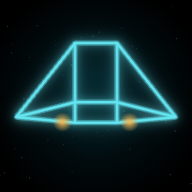
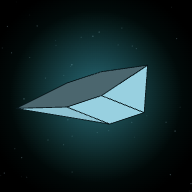
Switch from neon wireframe to retro flat-shaded solids
Ships, station, planets, moons, asteroids and canisters are now solid
flat-shaded hulls in the style of the 16-bit Elite ports, replacing the
line-art wireframes.

- Hulls built as convex solids from the ship vertex clouds; added spine
  and keel vertices so each broad surface splits into separately-lit
  facets instead of reading as one flat plate
- Sun-anchored key light plus cool kicker and hemisphere fill, so every
  facet lands on a distinct value and silhouettes never go black
- Planets are faceted globes with a real day/night terminator; the
  station's docking slot is a dark recess rimmed in landing-light green
- Bloom now thresholded so only lasers, glows and suns bleed
- Saturated hull palette that survives the lambert ramp
- App icon and manual cover redrawn as flat-shaded polygons

Changed region(s): [[0.0312, 0.1875, 0.9688, 0.8438]]

diff --git a/index.html b/index.html
@@ -282,6 +282,7 @@ import * as THREE from 'three';
 import {EffectComposer} from 'three/addons/postprocessing/EffectComposer.js';
 import {RenderPass} from 'three/addons/postprocessing/RenderPass.js';
 import {UnrealBloomPass} from 'three/addons/postprocessing/UnrealBloomPass.js';
+import {ConvexGeometry} from 'three/addons/geometries/ConvexGeometry.js';
 
 /* ============================================================
    ELITE 3K — a single-file tribute to Elite (1984)
@@ -622,85 +623,88 @@ const RANKS=[[0,'HARMLESS'],[8,'MOSTLY HARMLESS'],[16,'POOR'],[32,'AVERAGE'],[64
 function rankName(kills){let r=RANKS[0][1];for(const [k,n] of RANKS)if(kills>=k)r=n;return r;}
 function legalName(l){return l<=0?'CLEAN':l<32?'OFFENDER':'FUGITIVE';}
 
-/* ---------------- ship wireframe data ----------------
-   coordinates: nose toward -Z, up +Y                    */
+/* ---------------- ship hull data ----------------
+   coordinates: nose toward -Z, up +Y.
+   Vertices form a convex point cloud; a raised spine and keel along the
+   centreline split each broad surface into separate facets so the flat
+   shading reads as volume rather than one flat plate.               */
 const SHIPS={
   sidewinder:{label:'SIDEWINDER',hp:24,speed:370,turn:1.5,dmg:4,fireRate:2.2,bounty:[15,40],size:22,
-    v:[[-8,0,-18],[8,0,-18],[20,0,16],[-20,0,16],[0,7,12],[0,-7,12]],
-    e:[[0,1],[1,2],[2,3],[3,0],[0,4],[1,4],[2,4],[3,4],[0,5],[1,5],[2,5],[3,5]]},
+    v:[[-8,0,-18],[8,0,-18],[0,3,-19],[0,-2,-18],
+       [20,0,16],[-20,0,16],[0,7,12],[0,-7,12],[0,2,16]]},
   krait:{label:'KRAIT',hp:30,speed:340,turn:1.35,dmg:5,fireRate:2.0,bounty:[20,60],size:26,
-    v:[[0,0,-26],[0,8,14],[0,-8,14],[-24,0,8],[24,0,8],[0,0,20]],
-    e:[[0,1],[0,2],[0,3],[0,4],[1,5],[2,5],[3,5],[4,5],[1,3],[1,4],[2,3],[2,4]]},
+    v:[[0,0,-26],[0,8,14],[0,-8,14],[-24,0,8],[24,0,8],[0,0,20],
+       [-6,3,2],[6,3,2],[-6,-3,2],[6,-3,2]]},
   mamba:{label:'MAMBA',hp:35,speed:390,turn:1.5,dmg:5,fireRate:1.8,bounty:[30,80],size:26,missiles:1,
-    v:[[0,0,-28],[-22,0,14],[22,0,14],[-9,6,14],[9,6,14],[-9,-4,14],[9,-4,14]],
-    e:[[0,1],[0,2],[1,3],[3,4],[4,2],[2,6],[6,5],[5,1],[0,3],[0,4],[0,5],[0,6]]},
+    v:[[0,0,-28],[-22,0,14],[22,0,14],[-9,6,14],[9,6,14],[-9,-4,14],[9,-4,14],
+       [0,7,6],[0,-5,4]]},
   adder:{label:'ADDER',hp:28,speed:280,turn:1.1,dmg:3,fireRate:2.6,bounty:[10,30],size:22,
-    v:[[-6,-4,-16],[6,-4,-16],[6,4,-16],[-6,4,-16],[-10,-6,14],[10,-6,14],[10,6,14],[-10,6,14]],
-    e:[[0,1],[1,2],[2,3],[3,0],[4,5],[5,6],[6,7],[7,4],[0,4],[1,5],[2,6],[3,7]]},
+    v:[[-6,-4,-16],[6,-4,-16],[6,4,-16],[-6,4,-16],[0,6,-14],
+       [-10,-6,14],[10,-6,14],[10,6,14],[-10,6,14],[0,9,4],[0,-7,4]]},
   cobra:{label:'COBRA MK III',hp:55,speed:400,turn:1.4,dmg:6,fireRate:1.7,bounty:[40,110],size:38,
-    v:[[-10,0,-26],[10,0,-26],[-38,0,12],[38,0,12],[-10,7,10],[10,7,10],[-10,-6,10],[10,-6,10]],
-    e:[[0,1],[0,2],[1,3],[0,4],[1,5],[0,6],[1,7],[2,4],[4,5],[5,3],[3,7],[7,6],[6,2]]},
+    v:[[-10,0,-26],[10,0,-26],[0,2,-28],
+       [-38,0,12],[38,0,12],
+       [-10,7,10],[10,7,10],[0,10,4],
+       [-10,-6,10],[10,-6,10],[0,-7,2],
+       [0,4,12]]},
   asp:{label:'ASP MK II',hp:60,speed:420,turn:1.5,dmg:7,fireRate:1.5,bounty:[70,160],size:30,missiles:2,
-    v:[[0,0,-26],[-20,2,2],[20,2,2],[0,9,4],[0,-6,2],[-12,0,18],[12,0,18],[0,5,18]],
-    e:[[0,1],[0,2],[0,3],[0,4],[1,3],[2,3],[1,4],[2,4],[1,5],[2,6],[3,7],[5,7],[6,7],[5,6],[4,5],[4,6]]},
+    v:[[0,0,-26],[-20,2,2],[20,2,2],[0,9,4],[0,-6,2],[-12,0,18],[12,0,18],[0,5,18],
+       [-7,5,-6],[7,5,-6]]},
   viper:{label:'VIPER',hp:45,speed:440,turn:1.7,dmg:6,fireRate:1.6,bounty:[0,0],size:26,
-    v:[[0,0,-24],[-16,0,10],[16,0,10],[0,7,10],[0,-5,10],[-24,0,16],[24,0,16]],
-    e:[[0,1],[0,2],[0,3],[0,4],[1,3],[3,2],[2,4],[4,1],[1,5],[2,6],[5,6]]},
+    v:[[0,0,-24],[-16,0,10],[16,0,10],[0,7,10],[0,-5,10],[-24,0,16],[24,0,16],
+       [0,5,0],[0,-4,2]]},
   python:{label:'PYTHON',hp:120,speed:250,turn:0.8,dmg:6,fireRate:2.4,bounty:[80,200],size:48,
-    v:[[0,0,-40],[-26,0,0],[26,0,0],[0,14,0],[0,-10,0],[0,0,36]],
-    e:[[0,1],[0,2],[0,3],[0,4],[5,1],[5,2],[5,3],[5,4],[1,3],[3,2],[2,4],[4,1]]},
+    v:[[0,0,-40],[-26,0,0],[26,0,0],[0,14,0],[0,-10,0],[0,0,36],
+       [-14,7,-14],[14,7,-14],[-14,-6,-14],[14,-6,-14],
+       [-13,7,16],[13,7,16],[-13,-5,16],[13,-5,16]]},
   anaconda:{label:'ANACONDA',hp:200,speed:200,turn:0.6,dmg:8,fireRate:2.2,bounty:[150,350],size:60,
     v:[[0,0,-52],
        [18,0,-10],[9,14,-10],[-9,14,-10],[-18,0,-10],[-9,-12,-10],[9,-12,-10],
-       [14,0,40],[7,11,40],[-7,11,40],[-14,0,40],[-7,-9,40],[7,-9,40]],
-    e:[[0,1],[0,2],[0,3],[0,4],[0,5],[0,6],
-       [1,2],[2,3],[3,4],[4,5],[5,6],[6,1],
-       [7,8],[8,9],[9,10],[10,11],[11,12],[12,7],
-       [1,7],[2,8],[3,9],[4,10],[5,11],[6,12]]},
+       [14,0,40],[7,11,40],[-7,11,40],[-14,0,40],[-7,-9,40],[7,-9,40],
+       [10,8,14],[-10,8,14],[10,-7,14],[-10,-7,14],[19,0,14],[-19,0,14]]},
   ferdelance:{label:'FER-DE-LANCE',hp:70,speed:440,turn:2.0,dmg:7,fireRate:1.4,bounty:[90,180],size:30,
-    v:[[0,1,-30],[-20,0,14],[20,0,14],[0,7,6],[0,-4,8],[-8,5,14],[8,5,14],[-8,-3,14],[8,-3,14]],
-    e:[[0,1],[0,2],[0,3],[0,4],[3,5],[3,6],[1,5],[2,6],[5,6],[1,7],[2,8],[7,8],[4,7],[4,8],[5,7],[6,8]]},
+    v:[[0,1,-30],[-20,0,14],[20,0,14],[0,9,4],[0,-5,8],[-8,5,14],[8,5,14],[-8,-3,14],[8,-3,14],
+       [-7,4,-8],[7,4,-8]]},
   constrictor:{label:'CONSTRICTOR',hp:260,speed:460,turn:1.8,dmg:10,fireRate:1.2,bounty:[0,0],size:40,
-    v:[[-10,0,-30],[10,0,-30],[0,3,-18],[-26,0,10],[26,0,10],[0,8,4],[-10,4,16],[10,4,16],[-10,-4,16],[10,-4,16],[0,-5,4]],
-    e:[[0,2],[1,2],[0,3],[1,4],[2,5],[5,6],[5,7],[3,6],[4,7],[6,7],[8,9],[3,8],[4,9],[0,10],[1,10],[10,8],[10,9],[6,8],[7,9]]},
-  thargoid:{label:'THARGOID WARSHIP',hp:110,speed:380,turn:1.7,dmg:9,fireRate:1.5,bounty:[220,360],size:42,
-    v:[[0,10,0],[0,-8,0],
+    v:[[-10,0,-30],[10,0,-30],[0,4,-30],
+       [-26,0,10],[26,0,10],[0,11,2],[-10,5,16],[10,5,16],[-10,-5,16],[10,-5,16],[0,-7,2],
+       [0,6,16]]},
+  thargoid:{label:'THARGOID WARSHIP',hp:110,speed:380,turn:1.5,dmg:9,fireRate:1.5,bounty:[220,360],size:42,
+    v:[[0,13,0],[0,-11,0],
        [36,0,0],[25.5,0,-25.5],[0,0,-36],[-25.5,0,-25.5],[-36,0,0],[-25.5,0,25.5],[0,0,36],[25.5,0,25.5],
-       [18,5,0],[12.7,5,-12.7],[0,5,-18],[-12.7,5,-12.7],[-18,5,0],[-12.7,5,12.7],[0,5,18],[12.7,5,12.7]],
-    e:[[2,3],[3,4],[4,5],[5,6],[6,7],[7,8],[8,9],[9,2],
-       [10,11],[11,12],[12,13],[13,14],[14,15],[15,16],[16,17],[17,10],
-       [2,10],[3,11],[4,12],[5,13],[6,14],[7,15],[8,16],[9,17],
-       [0,10],[0,12],[0,14],[0,16],
-       [1,2],[1,4],[1,6],[1,8]]},
+       [20,6,0],[14,6,-14],[0,6,-20],[-14,6,-14],[-20,6,0],[-14,6,14],[0,6,20],[14,6,14],
+       [17,-5,0],[12,-5,-12],[0,-5,-17],[-12,-5,-12],[-17,-5,0],[-12,-5,12],[0,-5,17],[12,-5,12]]},
   missile:{label:'MISSILE',hp:1,speed:640,turn:2.6,size:6,
-    v:[[0,0,-7],[-1.6,1.6,5],[1.6,1.6,5],[1.6,-1.6,5],[-1.6,-1.6,5]],
-    e:[[0,1],[0,2],[0,3],[0,4],[1,2],[2,3],[3,4],[4,1]]},
+    v:[[0,0,-7],[-1.6,1.6,5],[1.6,1.6,5],[1.6,-1.6,5],[-1.6,-1.6,5],[0,2.2,0],[0,-2.2,0]]},
   pod:{label:'ESCAPE POD',hp:1,speed:80,turn:1,size:6,
-    v:[[0,0,-5],[-3,3,3],[3,3,3],[3,-3,3],[-3,-3,3]],
-    e:[[0,1],[0,2],[0,3],[0,4],[1,2],[2,3],[3,4],[4,1]]},
+    v:[[0,0,-5],[-3,3,3],[3,3,3],[3,-3,3],[-3,-3,3],[0,4,0],[0,-4,0]]},
 };
 
+/* retro flat-shaded hull palette: saturated 16-bit port colours that hold
+   their identity once the lambert ramp darkens the off-facing facets */
 const COLORS={
-  pirate:0xff5470, trader:0xffb347, police:0x6ea8ff, player:0x63e6f2,
-  asteroid:0x8fa3ad, canister:0x63e6f2, splinter:0x9fe8c8, missile:0xe070ff,
-  station:0x63e6f2, planet:0x7dff9b, hostileMissile:0xff5470,
+  pirate:0xe05a70, trader:0xf0b455, police:0x6f9fe8, player:0x63e6f2,
+  asteroid:0x94a1ad, canister:0x4fc4d6, splinter:0x7ee0bc, missile:0xdf7cf5,
+  station:0xaebcc9, planet:0x7dff9b, hostileMissile:0xff5470,
 };
 
-function shipGeometry(def){
-  const pos=[];
-  for(const [a,b] of def.e){
-    pos.push(...def.v[a],...def.v[b]);
-  }
-  const g=new THREE.BufferGeometry();
-  g.setAttribute('position',new THREE.Float32BufferAttribute(pos,3));
-  return g;
-}
+/* solid faceted hull from the ship's vertex cloud (all hulls are convex-ish) */
 const _geoCache={};
+function hullGeo(key){
+  if(!_geoCache[key]){
+    const pts=SHIPS[key].v.map(v=>new THREE.Vector3(v[0],v[1],v[2]));
+    const solid=new ConvexGeometry(pts);
+    _geoCache[key]={solid,edges:new THREE.EdgesGeometry(solid,14)};
+  }
+  return _geoCache[key];
+}
 function buildShipMesh(key,color){
-  if(!_geoCache[key])_geoCache[key]=shipGeometry(SHIPS[key]);
+  const g=hullGeo(key);
   const grp=new THREE.Group();
-  const mat=new THREE.LineBasicMaterial({color,transparent:true,opacity:0.95});
-  grp.add(new THREE.LineSegments(_geoCache[key],mat));
+  const mat=new THREE.MeshLambertMaterial({color,flatShading:true});
+  grp.add(new THREE.Mesh(g.solid,mat));
+  grp.add(new THREE.LineSegments(g.edges,
+    new THREE.LineBasicMaterial({color:0x000000,transparent:true,opacity:0.42})));
   grp.userData.mat=mat;
   return grp;
 }
@@ -727,42 +731,37 @@ function glowSprite(color,scale){
   return s;
 }
 
-/* Coriolis station: octagonal drum, docking slot on the planet-facing face */
+/* Coriolis station: solid octagonal drum, dark docking slot on the planet-facing face */
 function buildStation(){
   const R=520,      // rim radius
         F=250,      // face half-size
         D=210;      // half depth
-  const v=[],e=[];
+  const pts=[];
   // front face square (z=-D, faces planet along -Z), rear square rotated 45°
-  const fs=[[-F,-F,-D],[F,-F,-D],[F,F,-D],[-F,F,-D]];
-  const rs=[[0,-F*1.2,D],[F*1.2,0,D],[0,F*1.2,D],[-F*1.2,0,D]];
-  // middle octagon
-  const mid=[];
+  [[-F,-F,-D],[F,-F,-D],[F,F,-D],[-F,F,-D],
+   [0,-F*1.2,D],[F*1.2,0,D],[0,F*1.2,D],[-F*1.2,0,D]].forEach(p=>pts.push(new THREE.Vector3(...p)));
   for(let i=0;i<8;i++){
     const a=(i/8)*Math.PI*2+Math.PI/8;
-    mid.push([Math.cos(a)*R,Math.sin(a)*R,0]);
+    pts.push(new THREE.Vector3(Math.cos(a)*R,Math.sin(a)*R,0));
   }
-  const V=p=>{v.push(p);return v.length-1;};
-  const fi=fs.map(V),ri=rs.map(V),mi=mid.map(V);
-  for(let i=0;i<4;i++){e.push([fi[i],fi[(i+1)%4]]);e.push([ri[i],ri[(i+1)%4]]);}
-  for(let i=0;i<8;i++)e.push([mi[i],mi[(i+1)%8]]);
-  for(let i=0;i<4;i++){ // connect faces to octagon rim
-    e.push([fi[i],mi[(i*2+7)%8]]);e.push([fi[i],mi[i*2]]);
-    e.push([ri[i],mi[(i*2+1)%8]]);e.push([ri[i],mi[(i*2+2)%8]]);
-  }
-  // docking slot (wide rectangle) on front face
-  const sw=95,sh=34,z=-D-1;
-  const s0=V([-sw,-sh,z]),s1=V([sw,-sh,z]),s2=V([sw,sh,z]),s3=V([-sw,sh,z]);
-  e.push([s0,s1],[s1,s2],[s2,s3],[s3,s0]);
-  const pos=[];
-  for(const [a,b] of e)pos.push(...v[a],...v[b]);
-  const g=new THREE.BufferGeometry();
-  g.setAttribute('position',new THREE.Float32BufferAttribute(pos,3));
+  const solid=new ConvexGeometry(pts);
   const grp=new THREE.Group();
-  grp.add(new THREE.LineSegments(g,new THREE.LineBasicMaterial({color:COLORS.station})));
-  // slot beacon glow
-  const beacon=glowSprite(0x7dff9b,110);
-  beacon.position.set(0,0,-D-8);
+  grp.add(new THREE.Mesh(solid,new THREE.MeshLambertMaterial({color:COLORS.station,flatShading:true})));
+  grp.add(new THREE.LineSegments(new THREE.EdgesGeometry(solid,14),
+    new THREE.LineBasicMaterial({color:0x000000,transparent:true,opacity:0.45})));
+  // docking slot: a dark recessed mouth, rimmed in landing-light green
+  const sw=95,sh=34;
+  const slot=new THREE.Mesh(new THREE.BoxGeometry(sw*2,sh*2,10),
+    new THREE.MeshBasicMaterial({color:0x010608}));
+  slot.position.set(0,0,-D-4);
+  grp.add(slot);
+  const rim=new THREE.LineSegments(
+    new THREE.EdgesGeometry(new THREE.PlaneGeometry(sw*2,sh*2)),
+    new THREE.LineBasicMaterial({color:0x7dff9b}));
+  rim.position.set(0,0,-D-9.5);
+  grp.add(rim);
+  const beacon=glowSprite(0x7dff9b,120);
+  beacon.position.set(0,0,-D-16);
   grp.add(beacon);
   grp.userData={R,D,slotW:sw,slotH:sh};
   return grp;
@@ -778,17 +777,20 @@ function buildAsteroid(r){
     const s=seenKeys[k];
     p.setXYZ(i,p.getX(i)*s,p.getY(i)*s,p.getZ(i)*s);
   }
-  const wire=new THREE.WireframeGeometry(geo);
+  geo.computeVertexNormals();
   const grp=new THREE.Group();
-  grp.add(new THREE.LineSegments(wire,new THREE.LineBasicMaterial({color:COLORS.asteroid,transparent:true,opacity:0.7})));
+  grp.add(new THREE.Mesh(geo,new THREE.MeshLambertMaterial({color:COLORS.asteroid,flatShading:true})));
+  grp.add(new THREE.LineSegments(new THREE.EdgesGeometry(geo,20),
+    new THREE.LineBasicMaterial({color:0x000000,transparent:true,opacity:0.3})));
   return grp;
 }
 
 function buildCanister(color){
   const geo=new THREE.CylinderGeometry(3,3,8,6,1,false);
-  const wire=new THREE.WireframeGeometry(geo);
   const grp=new THREE.Group();
-  grp.add(new THREE.LineSegments(wire,new THREE.LineBasicMaterial({color})));
+  grp.add(new THREE.Mesh(geo,new THREE.MeshLambertMaterial({color,flatShading:true})));
+  grp.add(new THREE.LineSegments(new THREE.EdgesGeometry(geo,14),
+    new THREE.LineBasicMaterial({color:0x000000,transparent:true,opacity:0.35})));
   return grp;
 }
 
@@ -806,7 +808,8 @@ function initScene(){
   camera=new THREE.PerspectiveCamera(66,innerWidth/innerHeight,1,2.5e6);
   composer=new EffectComposer(renderer);
   composer.addPass(new RenderPass(scene,camera));
-  bloomPass=new UnrealBloomPass(new THREE.Vector2(innerWidth/2,innerHeight/2),0.9,0.55,0);
+  // solid hulls need a threshold so only lasers, glows and suns bloom
+  bloomPass=new UnrealBloomPass(new THREE.Vector2(innerWidth/2,innerHeight/2),0.85,0.5,0.55);
   composer.addPass(bloomPass);
   // starfield — recentered on camera every frame so it never recedes
   const N=1600,pos=new Float32Array(N*3),col=new Float32Array(N*3);
@@ -841,6 +844,7 @@ function clearWorld(){
   for(const k of ['planet','planetGlow','station','sun','titleShip'])
     if(W[k]){scene.remove(W[k]);W[k]=null;}
   if(W.moons){for(const m of W.moons)scene.remove(m);W.moons=null;}
+  if(W.lights){for(const l of W.lights)scene.remove(l);W.lights=null;}
   for(const t of transients)scene.remove(t.obj);
   transients.length=0;
   for(const n of NPCS)scene.remove(n.obj);
@@ -851,17 +855,13 @@ function clearWorld(){
 function buildSystemScene(sys){
   clearWorld();
   const rng=mulberry32(GALAXY_SEED^(sys.i*131));
-  // planet
+  // planet: flat-shaded faceted globe with an atmosphere haze
   const pr=sys.radius;
   const pg=new THREE.Group();
-  const sphere=new THREE.IcosahedronGeometry(pr,3);
-  pg.add(new THREE.LineSegments(new THREE.WireframeGeometry(sphere),
-    new THREE.LineBasicMaterial({color:sys.color,transparent:true,opacity:0.30})));
-  // coarse inner shell for depth
-  pg.add(new THREE.LineSegments(new THREE.WireframeGeometry(new THREE.IcosahedronGeometry(pr*0.995,1)),
-    new THREE.LineBasicMaterial({color:sys.color,transparent:true,opacity:0.5})));
-  const glow=glowSprite(sys.color,pr*3.1);
-  glow.material.opacity=0.35;
+  pg.add(new THREE.Mesh(new THREE.IcosahedronGeometry(pr,2),
+    new THREE.MeshLambertMaterial({color:sys.color,flatShading:true})));
+  const glow=glowSprite(sys.color,pr*2.9);
+  glow.material.opacity=0.22;
   pg.add(glow);
   // settlement lights on populous high-tech worlds
   if(parseFloat(sys.pop)>4&&sys.tech>6){
@@ -899,8 +899,8 @@ function buildSystemScene(sys){
     const pivot=new THREE.Group();
     const mr=pr*(0.10+rng()*0.10);
     const md=pr*(2.6+m*1.1+rng()*0.6);
-    const moon=new THREE.LineSegments(new THREE.WireframeGeometry(new THREE.IcosahedronGeometry(mr,1)),
-      new THREE.LineBasicMaterial({color:0xb8ccd4,transparent:true,opacity:0.45}));
+    const moon=new THREE.Mesh(new THREE.IcosahedronGeometry(mr,1),
+      new THREE.MeshLambertMaterial({color:0x9fb0ba,flatShading:true}));
     moon.position.set(md,0,0);
     pivot.rotation.y=rng()*6.28;
     pivot.rotation.x=(rng()-0.5)*0.5;
@@ -927,6 +927,15 @@ function buildSystemScene(sys){
   sun.position.copy(sunPos);
   scene.add(sun);
   W.sun=sun;
+  // flat-shaded hulls: hard key from the sun, cool kicker opposite, sky/ground fill
+  // so every facet lands on a different value and the silhouette never goes black
+  const key=new THREE.DirectionalLight(0xfff4e2,2.6);
+  key.position.copy(sun.position);
+  const kick=new THREE.DirectionalLight(0x6fa8d8,0.9);
+  kick.position.copy(sun.position).negate().setY(sun.position.y+3e5);
+  const fill=new THREE.HemisphereLight(0xa8c8dd,0x2a3742,1.0);
+  scene.add(key,kick,fill);
+  W.lights=[key,kick,fill];
   // station — orbits the planet, faces it
   const st=buildStation();
   const sa=rng()*Math.PI*2;
@@ -950,6 +959,12 @@ function buildWitchspaceScene(){
   }
   scene.add(neb);
   W.sun=neb;   // reuse slot so clearWorld tidies it
+  // sickly half-light: witchspace has no sun
+  const key=new THREE.DirectionalLight(0x9fdcb4,0.9);
+  key.position.set(0.4,1,0.3);
+  const fill=new THREE.AmbientLight(0x36584a,0.7);
+  scene.add(key,fill);
+  W.lights=[key,fill];
 }
 
 /* station's slot axis: from station toward planet (world space) */
@@ -1075,18 +1090,23 @@ function stopHyperFX(){
 /* title scene: slowly tumbling Cobra */
 function buildTitleScene(){
   clearWorld();
-  const ship=buildShipMesh('cobra',COLORS.player);
-  ship.scale.setScalar(2.2);
-  ship.position.set(0,0,0);
+  const ship=buildShipMesh('cobra',0x9fb9c4);
+  ship.scale.setScalar(1.5);
+  ship.position.set(0,-34,-40);
   scene.add(ship);
   W.titleShip=ship;
-  camera.position.set(0,42,150);
-  camera.lookAt(0,0,0);
+  camera.position.set(0,30,150);
+  camera.lookAt(0,-24,-40);
   const sun=new THREE.Group();
   sun.add(glowSprite(0xffcf7a,600));
   sun.position.set(-900,300,-1600);
   scene.add(sun);
   W.sun=sun;
+  const key=new THREE.DirectionalLight(0xfff2dd,2.2);
+  key.position.set(-0.6,0.5,0.8);
+  const fill=new THREE.AmbientLight(0x8fb3c9,0.5);
+  scene.add(key,fill);
+  W.lights=[key,fill];
 }
 
 /* ---------------- game state ---------------- */

diff --git a/sw.js b/sw.js
@@ -1,5 +1,5 @@
 /* ELITE 3K service worker — cache-first for the game shell and the three.js CDN */
-const CACHE='e3k-v3';
+const CACHE='e3k-v4';
 const SHELL=['./','./index.html','./manifest.webmanifest','./icon-192.png','./icon-512.png'];
 
 self.addEventListener('install',e=>{

diff --git a/README.md b/README.md
@@ -1,6 +1,6 @@
 # ELITE 3K
 
-A single-file HTML5 tribute to *Elite* (1984) — neon-wireframe 3D, vanilla JS + three.js (CDN), built for both touch and keyboard.
+A single-file HTML5 tribute to *Elite* (1984) — retro flat-shaded 3D in the style of the 16-bit ports, vanilla JS + three.js (CDN), built for both touch and keyboard.
 
 **Play it: <https://thoracle.github.io/elite3k/>**
 
@@ -26,7 +26,8 @@ A single-file HTML5 tribute to *Elite* (1984) — neon-wireframe 3D, vanilla JS 
 - **Living space**: freighters launch from and dock at stations; planets vary — rings, moons, binary suns, settlement lights on populous worlds
 - Auto-save at every dock/launch, 3 manual slots, plus export/import transfer codes
 - Procedural WebAudio sound **and a generative ambient soundtrack** (calm pads in flight, opens up in combat, gentle arpeggios docked)
-- Neon cockpit frame, bloom glow (auto-disables on weak GPUs), optional **mouse steering** (desktop) and **tilt assist** (mobile) in STATUS settings
+- **Flat-shaded solid hulls** lit by the system's own sun — faceted ships, faceted planets with a day/night terminator, dark docking slot with landing-light rim
+- Vector cockpit frame and HUD, bloom on lasers and stars (auto-disables on weak GPUs), optional **mouse steering** (desktop) and **tilt assist** (mobile) in STATUS settings
 
 ## Controls
 
